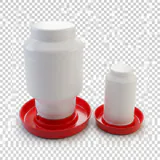
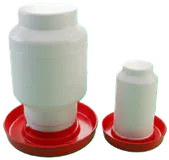
Publicar el bebedero sin el damero pintado
- El usuario le quitó el fondo en Paint (bebedero_quitado_disque.jpg, en JPG
  sobre blanco puro). nuevos_req.py lo usa en lugar de bebedero.png (tabla
  REEMPLAZOS) y lo recorta con la nueva quitar_fondo_blanco.
- Regeneradas solo las imágenes web del bebedero, ya transparentes, y quitado
  conFondo del producto en productos.json.
- Plan, handoff, activos.md, agentes, skill de marca y flow/PROMPTS.md al día.
- .gitignore: ignorar __pycache__/.

diff --git a/hinojosa-web/scripts-activos/nuevos_req.py b/hinojosa-web/scripts-activos/nuevos_req.py
@@ -56,7 +56,15 @@ CON_FONDO = {
     "melaza.jpg": (18, 40),                     # fondo gris liso de estudio: se recorta
     "sal en grano.jpg": None,                   # foto con fondo texturizado: se deja
     "diferentes tipos de semillas.jpg": None,   # bordes blancos de los sobres se confunden con el fondo
-    "bebedero.png": None,                       # damero "falso transparente" pintado + producto blanco
+}
+
+# Originales que se sustituyen por una version corregida que dejo el usuario en la
+# misma carpeta (se publica con el slug del original y la version corregida no
+# genera un producto propio).
+# bebedero.png traia un damero "falso transparente" pintado; el usuario le quito el
+# fondo en Paint, pero lo guardo en JPG, asi que llega sobre blanco puro.
+REEMPLAZOS = {
+    "bebedero.png": "bebedero_quitado_disque.jpg",
 }
 
 
@@ -119,6 +127,21 @@ def quitar_fondo_liso(rgb: np.ndarray, t_fondo: float, t_solido: float) -> Image
     return Image.fromarray(np.dstack([np.clip(col, 0, 255), alpha * 255]).astype(np.uint8), "RGBA")
 
 
+def quitar_fondo_blanco(rgb: np.ndarray, umbral: float = 2, d_solido: float = 18) -> Image.Image:
+    """RGBA sin el blanco puro conectado con los bordes. Para productos blancos sobre
+    blanco: `quitar_fondo_liso` toma su sombreado neutro por sombra y lo vacia."""
+    rgbf = rgb.astype(np.float32)
+    dist = (255 - rgbf).max(2)
+    fondo = flood_desde_bordes(dist <= umbral)
+    banda = dilatar(fondo, 2) & ~fondo
+    alpha = np.ones(dist.shape, np.float32)
+    alpha[banda] = np.clip(dist / d_solido, 0, 1)[banda]
+    alpha[fondo] = 0
+    a3 = np.maximum(alpha, 1e-3)[..., None]
+    col = np.where(alpha[..., None] > 0, (rgbf - (1 - a3) * 255) / a3, 0)
+    return Image.fromarray(np.dstack([np.clip(col, 0, 255), alpha * 255]).astype(np.uint8), "RGBA")
+
+
 def recortar_contenido(im: Image.Image, margen: int = 6, umbral: int = 8) -> Image.Image:
     if im.mode != "RGBA":
         return im
@@ -137,9 +160,13 @@ def maestros(tmp: Path) -> tuple[list[dict], list[str]]:
         for f in sorted((CATALOGO / carpeta).iterdir()):
             if f.suffix.lower() not in {".png", ".jpg", ".jpeg", ".webp"}:
                 continue
+            if f.name in REEMPLAZOS.values():
+                continue
             s = slug(f.name)
             im = Image.open(f)
-            if f.name in CON_FONDO:
+            if f.name in REEMPLAZOS:
+                im = quitar_fondo_blanco(np.asarray(Image.open(f.with_name(REEMPLAZOS[f.name])).convert("RGB")))
+            elif f.name in CON_FONDO:
                 params = CON_FONDO[f.name]
                 if params:
                     im = quitar_fondo_liso(np.asarray(im.convert("RGB")), *params)

diff --git a/PLAN.md b/PLAN.md
@@ -15,7 +15,7 @@ Carpeta `Nuevos Req/` (originales, **no se modifican**; la versión web se gener
 |---|---|---|
 | `Mascota/Canela.png` | Render estilo 3D de Canela sentada, 2752×1536, PNG recortado con alfa | Pose inicial de Canela en Inicio, primer cuadro de los clips de Flow (`flow/canela-inicio-azul.png`) y fallback de `prefers-reduced-motion` |
 | `Mascota/Canela Jugando.mp4` | Video de Canela jugando (3,3 MB), fondo gris de estudio | Recuadro de video en la tarjeta grande de "Quiénes somos" (pausable, silenciado, con `poster`). Existe además una versión con alfa (`canela-jugando-alfa.webm`) |
-| `CatalogoF/<categoría>/*.png` | 33 renders de producto, casi todos recortados con alfa (excepto `bebedero.png`, que trae un damero pintado, y `melaza.jpg`, `sal en grano.jpg`, `diferentes tipos de semillas.jpg`, con fondo) | Carrusel de Productos, miniaturas de la lista y vitrina de Inicio |
+| `CatalogoF/<categoría>/*.png` | 33 renders de producto, casi todos recortados con alfa (excepto `bebedero.png`, que trae un damero pintado — sustituido por `bebedero_quitado_disque.jpg`, ver P3 —, y `melaza.jpg`, `sal en grano.jpg`, `diferentes tipos de semillas.jpg`, con fondo) | Carrusel de Productos, miniaturas de la lista y vitrina de Inicio |
 
 **Consecuencias sobre el plan:**
 1. **4 categorías**, tal como las clasificó el cliente: **Alimento Animales de Granja** (`granja`) · **Alimento Mascotas** (`mascotas`) · **Comederos y Bebederos** (`comederos`) · **Granos y Semillas** (`granos`).
@@ -359,7 +359,7 @@ Los clips se piden con Canela **corriendo en el sitio, cámara fija y fondo azul
 - Bajo el anillo, el **rótulo**: nombre del producto al frente (Cormorant), categoría, posición y chip de precio.
 - **Nuevo (P2):** botón **"Preguntar por este producto"** junto al rótulo: `wa.me` con el nombre del producto cuando WhatsApp esté confirmado; mientras tanto "¿Dónde comprarlo? → Visítanos".
 - Producto al frente más grande en escritorio: `--carrusel-ancho: clamp(11.25rem, 24dvh, 15rem)` en ≥ 64rem (P7).
-- **Bebedero (P3):** el render trae un **damero gris y blanco pintado** (no es transparencia real). Se probó quitarlo por código (2026-10-14) y **no es fiable**: el bebedero es blanco con brillos del mismo tono que los cuadros claros, y bajo la base el damero está sombreado. Solución: rehacer el recorte con una herramienta de IA de quitar fondos o regenerar la imagen **sobre un color plano** (ver `flow/PROMPTS.md`, sección "Bebedero") y pasarla por `scripts-activos/nuevos_req.py`. Mientras tanto, tarjeta `sin-imagen` en el carrusel y en la lista.
+- **Bebedero (P3): ✅ resuelto el 2026-10-14.** El render original traía un damero pintado que no se podía quitar por código. El usuario le quitó el fondo en Paint (`Nuevos Req/CatalogoF/Comederos y Bebederos/bebedero_quitado_disque.jpg`); como lo guardó en JPG llegó sobre blanco puro, y `nuevos_req.py` lo recorta con `quitar_fondo_blanco` (tabla `REEMPLAZOS`: se publica con el slug `bebedero` y el JPG no crea un producto aparte). Las versiones web ya son transparentes y se quitó `conFondo` del producto en `productos.json`. Comprobado en `#productos` a 1440×900.
 - **Productos sin imagen (P5):** tarjeta genérica (costal con el nombre) al frente al elegirlos en la lista; sin "·" colgando cuando no hay posición.
 - **Inercia (P9):** un deslizamiento mueve 1–2 posiciones como máximo. En móvil, las flechas fuera del escenario o junto al rótulo.
 
@@ -541,7 +541,7 @@ hinojosa-web/
 | 33 renders de producto (`-400`, `-thumb`, `-thumb-80`) | ✅ Generado | Carrusel, lista, vitrina de Inicio, sellos de la vista 4 |
 | Trébol del isotipo en SVG (hojas y marca de agua) | ⏳ Por crear (< 3 kB) | Fondo de Inicio y de Visítanos sin mapa |
 | Tarjeta genérica de costal para productos sin imagen | ⏳ Por crear | Carrusel (P5) |
-| Bebedero sin damero | ⏳ El usuario lo rehace con IA (recorte de fondo o regenerado sobre color plano); el recorte por código no es fiable | Carrusel y lista (P3) |
+| Bebedero sin damero | ✅ 2026-10-14: fondo quitado en Paint por el usuario + recorte del blanco en `nuevos_req.py` | Carrusel y lista (P3) |
 | Foto / video de la fachada | ❌ Pedir a la dueña | Visítanos |
 | Foto del local o del equipo | ❌ Pedir a la dueña | Quiénes somos ("Nuestra historia") |
 | Logo vectorial | ❌ Pedir a la dueña | Afinar paleta y nitidez |
@@ -653,7 +653,7 @@ En `.claude/skills/` del proyecto:
 | 6 | Barra: ancho reservado, estiramiento, hover, pulsación, pop móvil, inversión de texto (B1–B4) | animacion-interaccion | No |
 | 7 | Quiénes somos: encuadre del video, banda de valores, tipografía de Misión/Visión, hover (N1, N2, N5–N8) | frontend, direccion-arte | No |
 | 8 | Productos en móvil: buscador arriba y hoja de detalle; inercia; flechas (P6, P9) | frontend, animacion-interaccion | No |
-| 9 | Carrusel: cambio de categoría direccional, pestañas, arrastre, llegada (C5–C8); producto al frente más grande; bebedero (P3, P7, P10) | animacion-interaccion, frontend | No |
+| 9 | Carrusel: cambio de categoría direccional, pestañas, arrastre, llegada (C5–C8); producto al frente más grande; miniaturas (P7, P10). Bebedero (P3) ya resuelto | animacion-interaccion, frontend | No |
 | 10 | Sistema de títulos, diferenciales, marcas, pilares, sellos y enlaces de animales (G3, Q1–Q7) | contenido-estrategia, direccion-arte, frontend | **Sí** (textos) |
 | 11 | "Preguntar por este producto", accesos de contacto en la barra (P2, G1) | frontend | **Sí** (WhatsApp) |
 | 12 | Pulidos: G4, G5, V4 | frontend | No |
@@ -682,13 +682,12 @@ En `.claude/skills/` del proyecto:
 - [ ] Confirmar datos del negocio (sección 1), incluida una línea de historia
 - [ ] Obtener logo en vectorial
 - [ ] Fotos del local, la fachada y (opcional) el equipo
-- [ ] PNG del bebedero con alfa real
 - [ ] Aprobar los textos del sistema de títulos (sección 3) y los de la vista 4 marcados con 🔒
 - [x] Recibir los archivos del perrito y las imágenes de producto (2026-10-12)
 - [x] Router de vistas probado con teclado
 - [x] Auditoría de UI/UX/movimiento (2026-10-13, `auditoria.md`)
 - [x] Decisiones de la auditoría tomadas (sección 0-B)
-- [ ] Bebedero sin damero: recorte con IA o regenerado sobre color plano (`flow/PROMPTS.md`)
+- [x] Bebedero sin damero (2026-10-14)
 - [x] Decidir las propuestas de color (sección 2, "Reparto del color"): aprobadas el 2026-10-14
 - [x] Video de Canela corriendo generado en Flow (`flow/Puppy_running_in_place_1080p_20261013235908.mp4`)
 - [ ] Fase 5-B: bloques 1 a 12 (incluido 4-B) + cierre de QA

diff --git a/hinojosa-web/docs/handoff.md b/hinojosa-web/docs/handoff.md
@@ -38,8 +38,8 @@ El sitio por vistas está **construido y verificado**, y ya hay una **auditoría
 4. **Plan reescrito** sin lo obsoleto (Three.js, `.glb`, Lottie, Lenis, 10 categorías, ruleta de costales) y con la **fase 5-B** (bloques 1–13 + 4-B + cierre de QA).
 5. **Agentes y skills** puestos al día con todo lo anterior.
 6. **Video de Canela** generado por el usuario en Google Flow y revisado: `flow/Puppy_running_in_place_1080p_20261013235908.mp4`.
-7. **Bebedero:** se intentó quitar el damero pintado por código y **no es fiable**; el usuario lo rehará con IA.
-8. Commit `3168635` subido a `origin/Ariel`.
+7. **Bebedero: resuelto.** El damero pintado no se podía quitar por código. El usuario le quitó el fondo en Paint y lo guardó en JPG (`Nuevos Req/CatalogoF/Comederos y Bebederos/bebedero_quitado_disque.jpg`, sobre blanco puro). `scripts-activos/nuevos_req.py` ahora lo usa en lugar de `bebedero.png` (tabla `REEMPLAZOS`) y lo recorta con la función nueva `quitar_fondo_blanco`. Se regeneraron solo `public/img/productos/comederos/bebedero*` (ya transparentes) y se quitó `conFondo` del producto `bebedero-aves` en `productos.json`. Comprobado con captura en `#productos`. **Es el único cambio de código del sitio en esta sesión.**
+8. Commits en `origin/Ariel`: `3168635` (auditoría, plan, agentes, skills, `flow/`), `9ba2526` (handoff) y el del bebedero.
 
 ## Video de Canela: lo que hay que saber para procesarlo
 
@@ -71,7 +71,7 @@ El sitio por vistas está **construido y verificado**, y ya hay una **auditoría
 | 6 | Barra B1–B4 | No |
 | 7 | Quiénes somos (video sin cortar la gorra, banda de valores) | No |
 | 8 | Productos en móvil: hoja de detalle | No |
-| 9 | Carrusel C5–C8, bebedero, tamaños | Bebedero: falta la imagen |
+| 9 | Carrusel C5–C8, tamaños, miniaturas (el bebedero ya está resuelto) | No |
 | 10 | Títulos, diferenciales, marcas, pilares | **Sí:** textos por aprobar |
 | 11 | "Preguntar por este producto", contacto en la barra | **Sí:** WhatsApp de la dueña |
 | 12 | Pulidos | No |
@@ -82,7 +82,7 @@ Al último aviso del 2026-10-14 se le propuso al usuario empezar por los bloques
 
 ## Pendiente del usuario o de la dueña
 
-- **Usuario:** bebedero sin damero → `flow/bebedero-nuevo.png` (recorte con IA en PNG con alfa, o regenerado sobre verde croma `#00B140`; prompt en `flow/PROMPTS.md`). Aprobar los textos de títulos y los de Por qué marcados 🔒.
+- **Usuario:** aprobar los textos de títulos y los de Por qué marcados 🔒. Decidir por dónde empezar la fase 5-B.
 - **Dueña:** dirección, ciudad, coordenadas, referencias, teléfono/WhatsApp, horario, Facebook; año de apertura o una línea de historia; foto del local, la fachada o el equipo; logo vectorial; 21 precios sin dato; derechos de uso de los renders.
 
 ## Cuidado al implementar (no romper lo que ya funciona)
@@ -92,7 +92,9 @@ Al último aviso del 2026-10-14 se le propuso al usuario empezar por los bloques
 - **La pausa del sitio** (`html[data-movimiento="pausado"]`) hoy anula `animation` pero **no** `transition`: toda transición nueva debe condicionarse.
 - **`vistas.ts` debe devolver una `Promise`**: hoy no lo hace y por eso se ve el fondo crema entre vistas.
 - **Nunca mostrar `PENDIENTE_CONFIRMAR` en pantalla**; vive solo en `negocio.json`.
-- **Imágenes con IA:** nunca pedir "fondo transparente" (pintan un damero); pedir un color plano.
+- **Imágenes con IA:** nunca pedir "fondo transparente" (pintan un damero); pedir un color plano. Al quitar fondos a mano, guardar en PNG (en JPG la transparencia pasa a blanco).
+- **Productos blancos sobre blanco:** recortar con `quitar_fondo_blanco`, no con `quitar_fondo_liso` (este vacía el sombreado neutro creyendo que es sombra).
+- Para regenerar un solo producto sin recodificar todo, ver cómo se hizo con el bebedero: `nr.maestros(tmp)`, filtrar los trabajos por nombre y `nr.codificar(seleccion, tmp)`.
 
 ## Bloqueantes para publicar (sin cambios)
 

diff --git a/.claude/agents/activos-3d-video.md b/.claude/agents/activos-3d-video.md
@@ -19,7 +19,7 @@ Eres el agente de activos de Comercial Hinojosa. Te basas en las secciones 0, 0-
 | Costales de la vitrina de Inicio | Bloque 4 | Ya existen las `-400.avif` de `granja/pollos`, `mascotas/procan-adultos`, `granos/maiz-en-grano`, `granja/cerdos`. Verifica peso (~16 kB c/u) y que su área pintada a ≤ 24dvh quede por debajo de la del logo (~66 000 px² a 1440×900), para que el logo siga siendo el LCP |
 | Trébol del isotipo en SVG | Hojas sueltas y marca de agua del fondo de Inicio y de Visítanos sin mapa | SVG inline optimizado, < 2 kB, sin texto. Sale del logo; si no hay vectorial, trázalo simple y repórtalo |
 | Tarjeta genérica de costal | Productos sin imagen al frente del carrusel (P5) | Silueta de costal en la paleta de marca con hueco para el nombre en HTML (el texto no va dentro de la imagen) |
-| Bebedero | P3 | El PNG trae un damero gris/blanco **pintado**. Se probó quitarlo por código (relleno desde los bordes sobre píxeles claros y neutros, 2026-10-14) y **no es fiable**: los brillos del frasco blanco tienen el mismo tono que los cuadros claros y bajo los platos el damero está sombreado. No lo reintentes por umbrales. El usuario lo rehará con IA (`flow/PROMPTS.md`, sección "Bebedero"): si llega `flow/bebedero-nuevo.png` con **alfa real**, úsalo tal cual; si llega sobre **verde croma `#00B140`**, añádelo a `CON_FONDO` con parámetros de `quitar_fondo_liso` y verifica sobre crema y sobre bosque que no quede halo verde. Mientras tanto, tarjeta `sin-imagen` |
+| Bebedero | P3 | ✅ Resuelto el 2026-10-14. El usuario quitó el fondo en Paint y lo guardó en JPG sobre blanco (`Nuevos Req/CatalogoF/Comederos y Bebederos/bebedero_quitado_disque.jpg`). `nuevos_req.py` lo usa en lugar de `bebedero.png` (tabla `REEMPLAZOS`) y lo recorta con `quitar_fondo_blanco` (relleno desde los bordes del blanco puro, umbral 2). **No uses `quitar_fondo_liso` para productos blancos sobre blanco**: toma su sombreado neutro por sombra y los vacía |
 | Canela con alfa en Quiénes somos | N1/N2 | Ya existe `canela-jugando-alfa.webm` y su póster. Mide el gris del fondo del video normal (para el fondo de la caja si se usa `contain`) y repórtalo en hex |
 | Sellos de especie (vista 4) | Q1 | `-thumb-80` de pollos, cerdos, vacas y cuyes (~4 kB c/u). Ya existen: confirma rutas |
 | Fachada | Visítanos | **Pendiente de la dueña.** Cuando llegue: WebM VP9 + MP4 H.264 + `poster`, 288×200 visibles |
@@ -35,7 +35,7 @@ No está en el PATH. Se usa el binario del paquete de Python `imageio-ffmpeg`: `
 - Las fuentes recortadas (`src/assets/fonts/caveat-brush-acento.woff2`) se regeneran cuando cambian las frases manuscritas; el comando está comentado en `global.css`. Con el acento nuevo de Inicio ("Tu mejor aliado para tus animales") hay que regenerarla.
 
 ## Límites
-- No inventes ni generes con IA un activo que debe entregar la dueña (fachada, local, equipo, bebedero con alfa, logo vectorial). Repórtalo como pendiente.
+- No inventes ni generes con IA un activo que debe entregar la dueña (fachada, local, equipo, logo vectorial). Repórtalo como pendiente.
 - No retoques fotos de producto ni cambies el contenido de los videos sin aprobación.
 - Los renders parecen generados con IA y llevan marcas de terceros: los derechos de uso los confirma la dueña.
 - Si una herramienta (ffmpeg, Python, Pillow) no está disponible, dilo; no supongas el resultado.

diff --git a/.claude/agents/frontend.md b/.claude/agents/frontend.md
@@ -15,14 +15,12 @@ El sitio por vistas está construido y verificado (router 41/41, axe 0, Lighthou
 1. **Visítanos (V1–V3):** nunca mostrar `PENDIENTE_CONFIRMAR`; datos pendientes con `textos.comunes.datoPendiente`; canales pendientes agrupados en una línea sin forma de botón (`BotonContacto.astro`); texto del mapa sin coordenadas; fondo con textura de marca; "Referencias" como etiqueta del dato.
 2. **Inicio (I1–I7):** vitrina de 4 costales en ≥ 64rem (≤ 24dvh, `fetchpriority="low"`, `aria-hidden`), acento nuevo, botón "Cómo llegar", accesos por categoría que abren `#productos` con la pestaña elegida, fila de animales, aro triple, fondo nuevo. **El logo debe seguir siendo el LCP.**
 3. **Buscador (P1, P4, P8):** incluir el campo `animales` en `data-busqueda`; normalizar tildes, guiones y espacios ("procan" = "pro-can"); singular/plural; sin resultados → 4 categorías como atajos; recuentos "3 de 7"; el carrusel lleva al frente el primer resultado.
-4. **Productos (P2, P3, P5, P7, P10):** botón "Preguntar por este producto" (`wa.me` con el nombre del producto solo si WhatsApp está confirmado; si no, ancla a `#visitanos`); bebedero sin damero; tarjeta genérica para productos sin imagen y sin "·" colgando; producto al frente más grande en escritorio; miniaturas de 48 px.
+4. **Productos (P2, P3, P5, P7, P10):** botón "Preguntar por este producto" (`wa.me` con el nombre del producto solo si WhatsApp está confirmado; si no, ancla a `#visitanos`); tarjeta genérica para productos sin imagen y sin "·" colgando; producto al frente más grande en escritorio; miniaturas de 48 px.
 5. **Hoja de detalle móvil (P6):** en < 48rem, buscador encima del carrusel y, al tocar una fila, `<dialog>` modal con imagen, nombre, presentación, precio y "Preguntar". Foco al título al abrir, `Esc` y "Cerrar" para salir, foco de vuelta a la fila, `←`/`→` no cambian de vista mientras está abierta.
 6. **Quiénes somos (N1, N5–N8):** video con `contain`, valores en una banda, tipografía de Misión/Visión, hover sin tilt en tarjetas no pulsables.
 7. **Por qué (Q4, Q6):** título arriba; animales como enlaces a `#productos` filtrado cuando exista el campo `animales`.
 8. **Sistema (G3–G5):** antetítulo + h2 (solo con los textos aprobados), "COMERCIAL" a 12 px, barra móvil de 44 px.
 9. **Reparto del color (bloque 13):** aplicar la retícula de color que defina `direccion-arte` (superficies `crema-oscuro`/`hoja-claro`, banda `bosque` por vista clara). Kraft, canela oscuro como fondo de banda y trazo dorado bajo los h2 están aprobados (2026-10-14); su ubicación exacta la fija la guía de estilo.
-10. **Bebedero:** hasta que exista la imagen nueva, mostrarlo con la tarjeta `sin-imagen` en el carrusel y en la lista (`conFondo` no basta: el damero se ve).
-
 Las animaciones de estos puntos las integra `animacion-interaccion`; tú dejas el marcado listo (`[data-entra]`, `data-texto` en los rótulos de la barra, etc.).
 
 ## Reglas no negociables

diff --git a/.claude/skills/marca-hinojosa/SKILL.md b/.claude/skills/marca-hinojosa/SKILL.md
@@ -157,7 +157,7 @@ Los precios de los afiches van siempre acompañados de **"Precios referenciales 
 - El logo no se deforma, no se recolorea y no se pone sobre fondos que le quiten contraste. Sobre fondo oscuro va la versión blanca.
 - La optimización de imágenes **no** puede degradar el logo: se mantiene en SVG o PNG nítido, nunca en un WebP agresivo.
 - **Marcas de terceros** (Pro-Can, Camperito, Nutritivos, Dog Chow, NutraPro, Bio Alimentar, Cani, Molinos Cordillera, Freemiau, Mascan…): se mencionan solo como productos que el local distribuye, con la nota al pie **"Marcas registradas de sus respectivos propietarios."** No se usan sus logos como si fueran de la marca propia.
-- **Imágenes generadas o editadas con IA:** nunca pidas "fondo transparente": casi todas pintan un damero falso (pasó con `bebedero.png`). Pide un **color plano** que no exista en el objeto (azul `#0047BB` para Canela, porque su gorra y collar son verdes; verde croma `#00B140` para productos sin verde) y se quita después en `scripts-activos/`.
+- **Imágenes generadas o editadas con IA:** nunca pidas "fondo transparente": casi todas pintan un damero falso (pasó con `bebedero.png`). Pide un **color plano** que no exista en el objeto (azul `#0047BB` para Canela, porque su gorra y collar son verdes; verde croma `#00B140` para productos sin verde) y se quita después en `scripts-activos/`. Si se quita el fondo a mano (Paint, Adobe Express…), **guardar en PNG**: en JPG la transparencia se convierte en blanco (pasó con el bebedero; se recuperó porque el fondo quedó blanco puro).
 - Las imágenes de los afiches son **referencia gráfica**, no fuente final. Varias parecen generadas con IA: antes de publicarlas hay que confirmar con la dueña los derechos de uso.
 
 ---

diff --git a/.claude/agents/direccion-arte.md b/.claude/agents/direccion-arte.md
@@ -12,7 +12,7 @@ La guía de estilo, los tokens (`src/styles/tokens.css`) y los storyboards exist
 - **Inicio (§7.1 de la guía): vitrina lateral.** Bloque centrado + 2 costales a cada lado en ≥ 64rem (≤ 24dvh, rotación ±4–6°, el de atrás con tinta al 25 %), acento "Tu mejor aliado para tus animales", botones "Ver productos" + "Cómo llegar", accesos por categoría, fila de animales, aro triple de la insignia, fondo con granos grandes + hojas + marca de agua del trébol. El hero partido con Canela grande se **descartó**.
 - **Canela (storyboard-hero):** carrera real de borde a borde con giro en cada borde; solo se sienta al principio (especificación en `PLAN.md` vista 1). Reescribe el storyboard del bucle: el actual describe la foto deslizándose a saltitos.
 - **Quiénes somos:** video con `contain` (no cortar la gorra), valores en una banda única, Misión/Visión en Nunito 400 `text-lead`, tilt solo en superficies no pulsables.
-- **Productos:** producto al frente más grande en escritorio, miniaturas de 48 px, bebedero sin damero, tarjeta genérica para productos sin imagen, hoja de detalle móvil, transiciones C1–C8 (storyboard-carrusel).
+- **Productos:** producto al frente más grande en escritorio, miniaturas de 48 px, tarjeta genérica para productos sin imagen, hoja de detalle móvil, transiciones C1–C8 (storyboard-carrusel).
 - **Por qué:** título arriba, círculo con aro solo en pilares, sellos de costal junto a animales.
 - **Visítanos:** fondo sin mapa con textura de marca (sin calles falsas), contactos pendientes en una línea.
 - **Sistema:** antetítulo + h2 en todas las vistas (textos pendientes de aprobación), barra con "COMERCIAL" a 12 px y barra móvil de 44 px.

diff --git a/hinojosa-web/docs/activos.md b/hinojosa-web/docs/activos.md
@@ -55,7 +55,8 @@ Por archivo: WebP 800 de 30 a 124 KB (media ≈ 72 KB), AVIF ≈ 40 % menos, min
 
 Fondos de origen:
 - `granja/melaza`: venía con fondo gris de estudio. **Recortado** (modelo de fondo cuadrático + relleno desde los bordes); la sombra de contacto se conserva como sombra negra semitransparente.
-- `granja/sal-en-grano` (foto con fondo texturizado), `granos/diferentes-tipos-de-semillas` (los bordes blancos de los sobres se confunden con el fondo) y `comederos/bebedero` (trae un **damero "transparente" pintado** dentro de la imagen y el producto es blanco): **se publican con su fondo**, rectangulares. El bebedero se ve mal sobre cualquier fondo: hay que pedir al cliente un PNG con transparencia real.
+- `granja/sal-en-grano` (foto con fondo texturizado) y `granos/diferentes-tipos-de-semillas` (los bordes blancos de los sobres se confunden con el fondo): **se publican con su fondo**, rectangulares.
+- `comederos/bebedero` (2026-10-14): el original traía un **damero "transparente" pintado** y no se podía recortar. Se usa `bebedero_quitado_disque.jpg` (fondo quitado en Paint por el usuario, guardado en JPG sobre blanco puro), que `nuevos_req.py` recorta con `quitar_fondo_blanco` (tabla `REEMPLAZOS`). Ya se publica **transparente**, sin `conFondo`.
 
 ### Canela (`Mascota/Canela.png`, recortada con alfa)
 

diff --git a/flow/PROMPTS.md b/flow/PROMPTS.md
@@ -105,6 +105,8 @@ Con eso yo:
 
 ## Bebedero plástico para aves (imagen, no video)
 
+> **✅ Resuelto el 2026-10-14:** se le quitó el fondo en Paint (`bebedero_quitado_disque.jpg`) y el script de activos recorta el blanco que quedó al guardarlo en JPG. Lo de abajo queda como referencia para otras imágenes con el mismo problema.
+
 El render `Nuevos Req/CatalogoF/Comederos y Bebederos/bebedero.png` trae un **damero gris y blanco pintado**: la IA que lo generó "dibujó" la transparencia en vez de dejarla transparente. Como el bebedero es blanco, no se puede quitar bien por código. Dos caminos:
 
 **A. Quitar el fondo con una herramienta de recorte (lo más rápido).** Sube `bebedero.png` a una herramienta de quitar fondo con IA, por ejemplo remove.bg, Adobe Express ("Quitar fondo", gratis), Canva ("Eliminar fondo") o Photoshop ("Quitar fondo"). Descarga en **PNG**. Revisa que no quede damero bajo los platos rojos ni se coman los bordes blancos del frasco.
